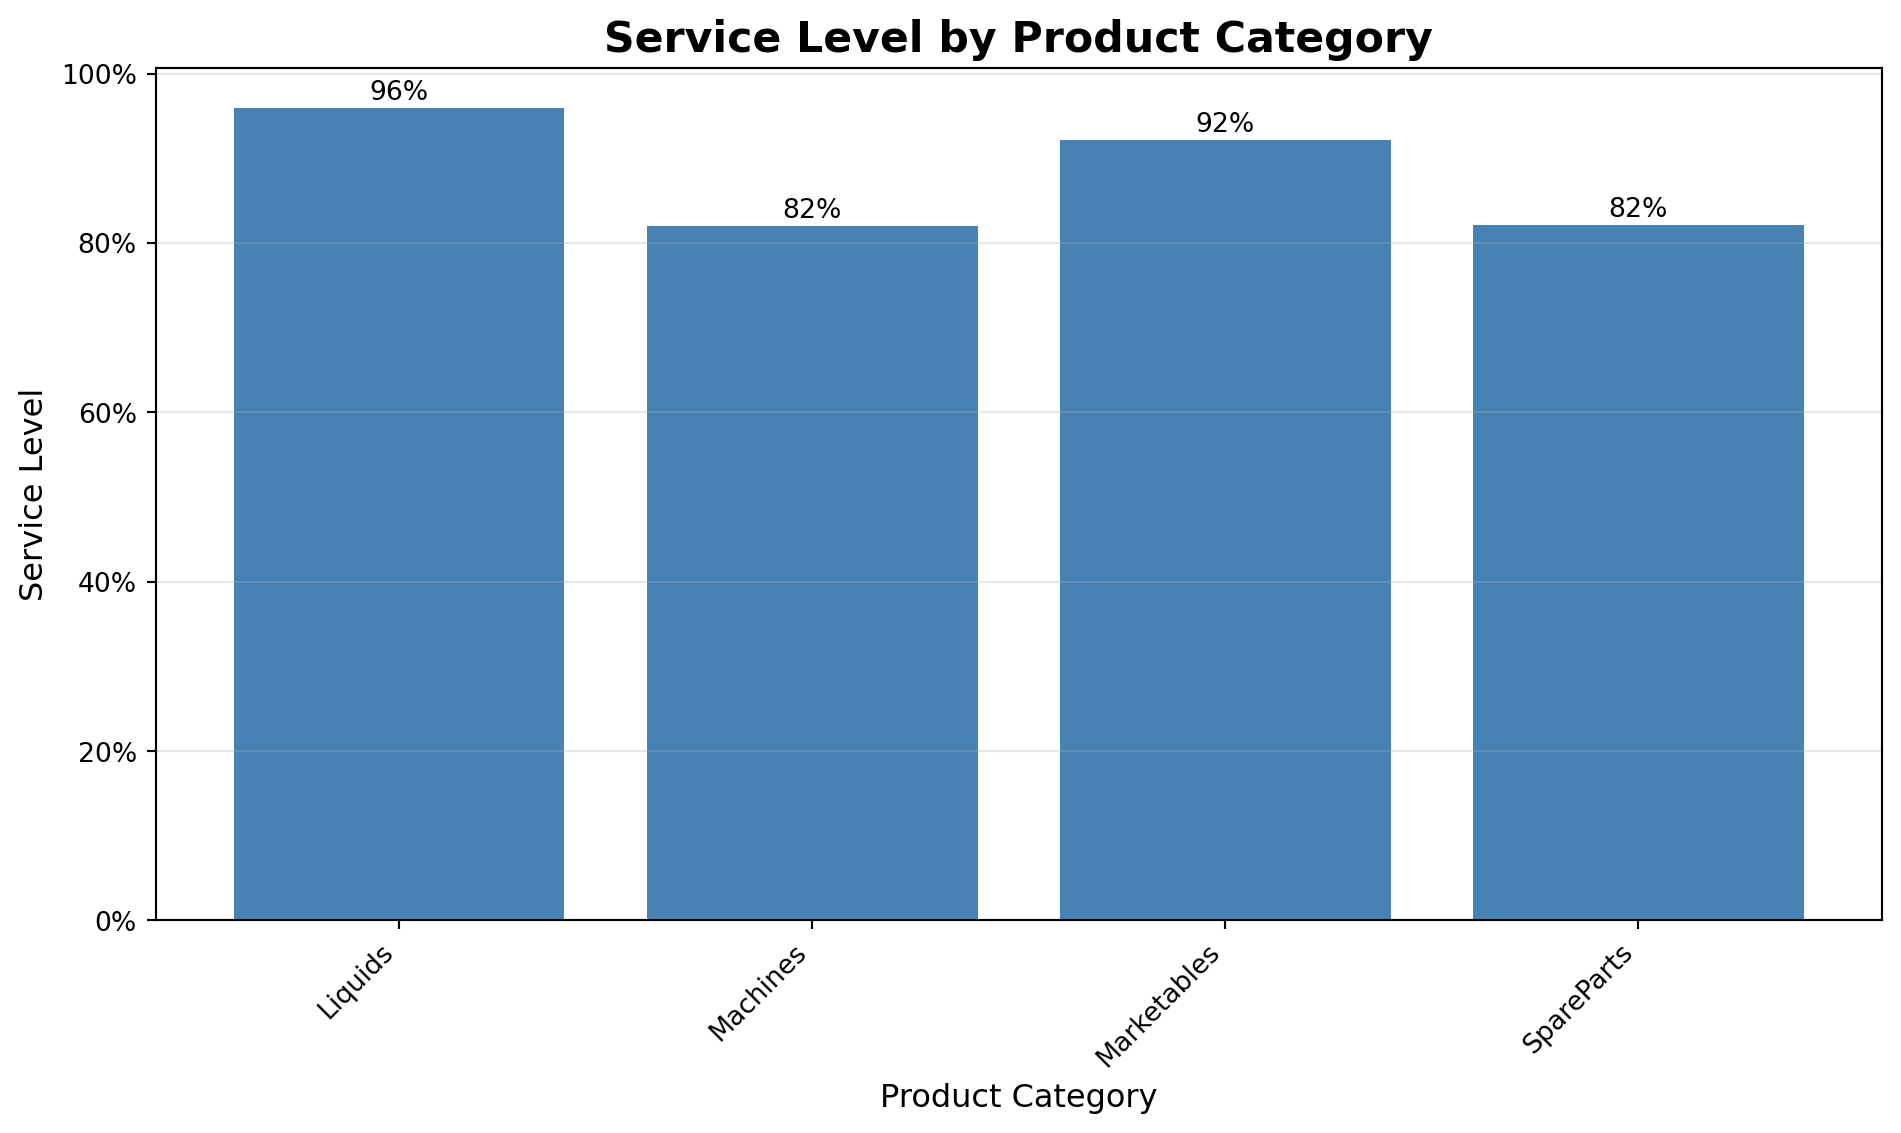
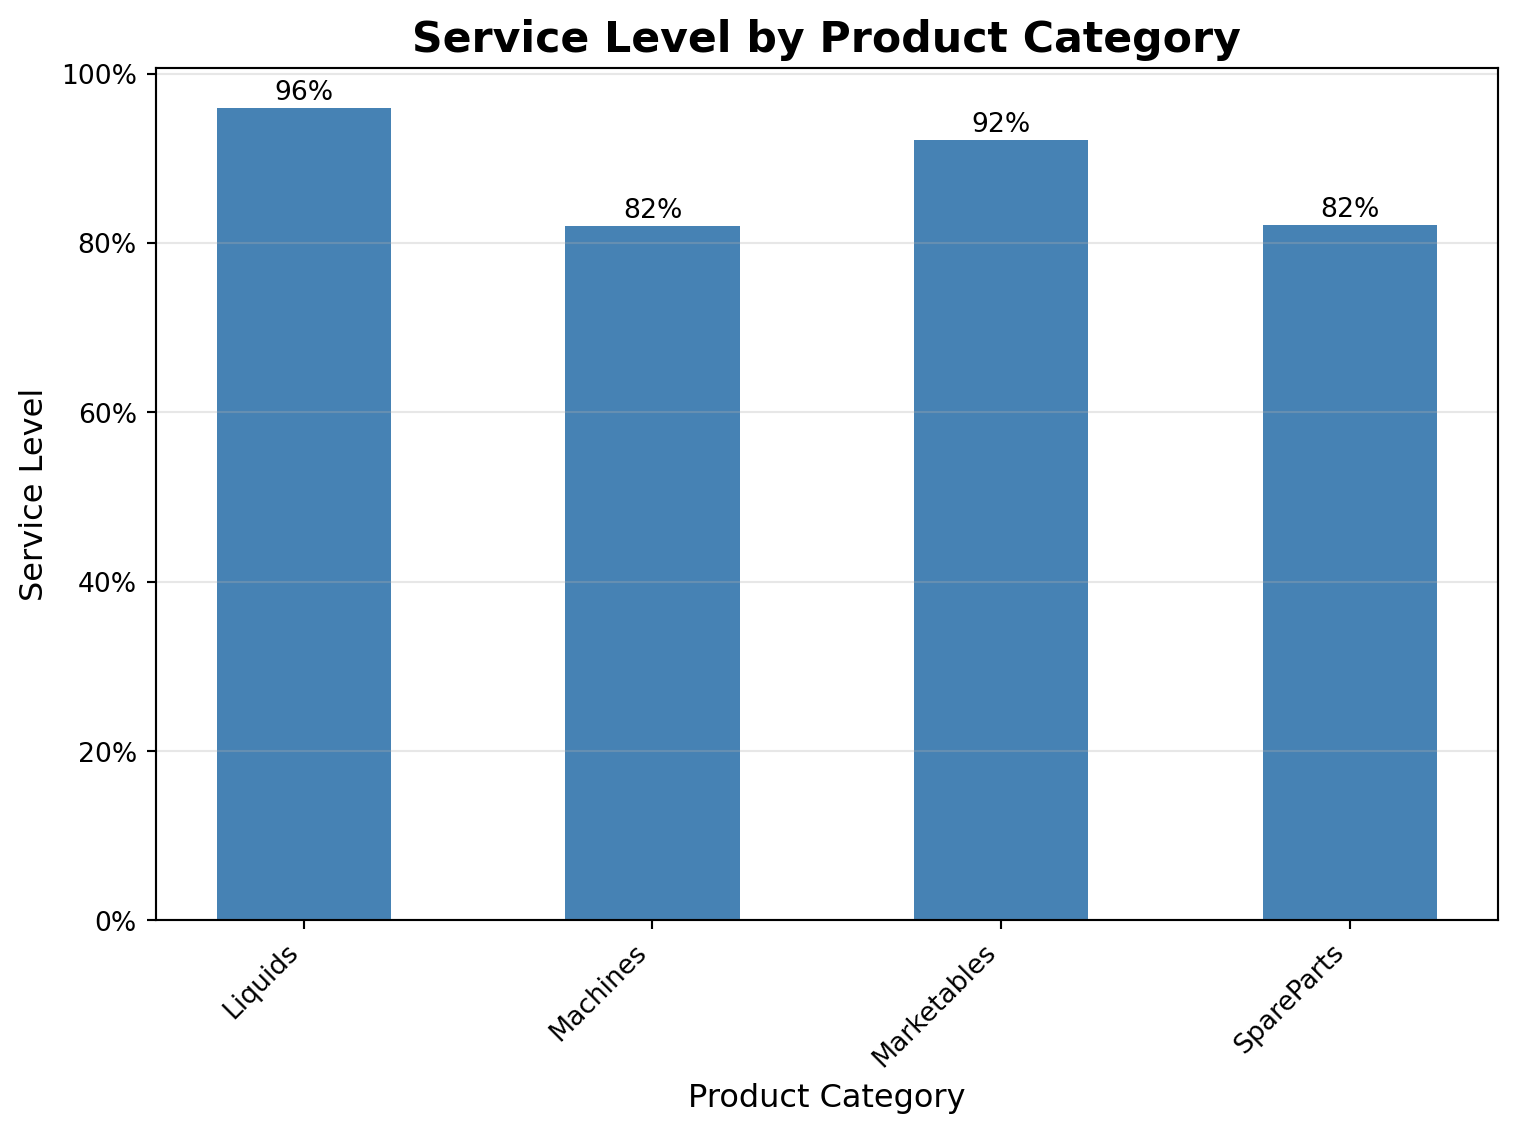
Commit 5 10/25

diff --git a/index.html b/index.html
@@ -380,14 +380,14 @@ First few rows of product line data:
 </div>
 <div class="callout-body-container callout-body">
 <p><strong>Answer 1: Data Types and Date Handling</strong> The dtype of the actualShipDate series is datetime64[ns]. This can be found by using the .dtype method on the actualShipDate column.</p>
-<div id="a63d2b31" class="cell" data-execution_count="3">
+<div id="527f9a0a" class="cell" data-execution_count="3">
 <div class="code-copy-outer-scaffold"><div class="sourceCode cell-code" id="cb6"><pre class="sourceCode python code-with-copy"><code class="sourceCode python"><span id="cb6-1"><a href="#cb6-1" aria-hidden="true" tabindex="-1"></a><span class="bu">print</span>(<span class="st">"The dtype of the actualShipDate series is:"</span>, shipments_df[<span class="st">'actualShipDate'</span>].dtype)</span></code></pre></div><button title="Copy to Clipboard" class="code-copy-button"><i class="bi"></i></button></div>
 <div class="cell-output cell-output-stdout">
 <pre><code>The dtype of the actualShipDate series is: datetime64[ns]</code></pre>
 </div>
 </div>
 <p><strong>Answer 2: String vs Date Comparison</strong> Comparing dates as strings can lead to errors. This happens because strings are compared lexicographically (character by character), while date objects are compared chronologically. Specifically, “20” comes before “21” in lexicographic order.</p>
-<div id="bb10c636" class="cell" data-execution_count="4">
+<div id="9b5c751a" class="cell" data-execution_count="4">
 <div class="code-copy-outer-scaffold"><div class="sourceCode cell-code" id="cb8"><pre class="sourceCode python code-with-copy"><code class="sourceCode python"><span id="cb8-1"><a href="#cb8-1" aria-hidden="true" tabindex="-1"></a><span class="bu">print</span>(<span class="st">"Comparing '10-21-2024' and '10-20-2025' as strings, which is false, but returned"</span>, <span class="st">"10-21-2024"</span> <span class="op">&gt;</span> <span class="st">"10-20-2025"</span>)</span>
 <span id="cb8-2"><a href="#cb8-2" aria-hidden="true" tabindex="-1"></a><span class="bu">print</span>(<span class="st">"Comparing '10-21-2024' and '10-20-2025' as dates, False is correct and returned:"</span>, pd.to_datetime(<span class="st">"10-21-2024"</span>) <span class="op">&gt;</span> pd.to_datetime(<span class="st">"10-20-2025"</span>))</span></code></pre></div><button title="Copy to Clipboard" class="code-copy-button"><i class="bi"></i></button></div>
 <div class="cell-output cell-output-stdout">
@@ -397,7 +397,7 @@ Comparing '10-21-2024' and '10-20-2025' as dates, False is correct and returned:
 </div>
 <p><strong>Answer 3: Debug This Code</strong> The error occurs because the lambda inside .assign() isn’t vectorized and won’t work with conditional statements like if/else. We can’t directly use a conditional statement like that in a vectorized assignment.</p>
 <p>To fix it, we should use .map() to create a new column with the lateStatement values and use lambda df: to reference the current dataframe.</p>
-<div id="7338014f" class="cell" data-execution_count="5">
+<div id="1f6ef77e" class="cell" data-execution_count="5">
 <div class="code-copy-outer-scaffold"><div class="sourceCode cell-code" id="cb10"><pre class="sourceCode python code-with-copy"><code class="sourceCode python"><span id="cb10-1"><a href="#cb10-1" aria-hidden="true" tabindex="-1"></a>shipments_with_lateness <span class="op">=</span> (</span>
 <span id="cb10-2"><a href="#cb10-2" aria-hidden="true" tabindex="-1"></a>    shipments_df</span>
 <span id="cb10-3"><a href="#cb10-3" aria-hidden="true" tabindex="-1"></a>    .assign(</span>
@@ -483,7 +483,7 @@ Late shipments sample:
 <div class="callout-body-container callout-body">
 <p><strong>Answer 1: Query vs Boolean Indexing</strong> The difference is that .query() allows you to filter data with a SQL-like syntax, whereas boolean indexing uses logical conditions directly on the dataframe. .query() is more readable and easier to understand due to its SQL-like syntax, especially for complex queries.</p>
 <p><strong>Answer 2: Additional Row Querying</strong> You can use a variable like <code>late_threshold</code> to query rows for shipments that are at least <code>late_threshold</code> days late. For example, if you wanted to query rows for shipments that are at least 5 days late, you could use the following code:</p>
-<div id="cc849d0a" class="cell" data-execution_count="7">
+<div id="1a3174f7" class="cell" data-execution_count="7">
 <div class="code-copy-outer-scaffold"><div class="sourceCode cell-code" id="cb13"><pre class="sourceCode python code-with-copy"><code class="sourceCode python"><span id="cb13-1"><a href="#cb13-1" aria-hidden="true" tabindex="-1"></a>late_shipments <span class="op">=</span> shipments_with_lateness.query(<span class="st">'days_late &gt;= 5'</span>)</span>
 <span id="cb13-2"><a href="#cb13-2" aria-hidden="true" tabindex="-1"></a><span class="bu">print</span>(late_shipments.head())</span>
 <span id="cb13-3"><a href="#cb13-3" aria-hidden="true" tabindex="-1"></a><span class="bu">print</span>(<span class="ss">f"Found </span><span class="sc">{</span><span class="bu">len</span>(late_shipments)<span class="sc">}</span><span class="ss"> late shipments out of </span><span class="sc">{</span><span class="bu">len</span>(shipments_with_lateness)<span class="sc">}</span><span class="ss"> total"</span>)</span></code></pre></div><button title="Copy to Clipboard" class="code-copy-button"><i class="bi"></i></button></div>
@@ -615,7 +615,7 @@ Remaining columns: ['shipID', 'plannedShipDate', 'actualShipDate', 'partID', 'is
 </div>
 <div class="callout-body-container callout-body">
 <p><strong>Answer 1: Sorting Strategies</strong> The difference between <code>ascending=False</code> and <code>ascending=True</code> in sorting is that <code>ascending=False</code> sorts the data in descending order, while <code>ascending=True</code> sorts the data in ascending order. You would use <code>ascending=False</code> if you want to sort the data from highest to lowest, and <code>ascending=True</code> if you want to sort the data from lowest to highest. To sort by multiple columns, we can use the <code>by</code> parameter with a list of columns. Below code sorts the data by <code>is_late</code> first, then by <code>days_late</code>.</p>
-<div id="8fad601b" class="cell" data-execution_count="10">
+<div id="66363244" class="cell" data-execution_count="10">
 <div class="code-copy-outer-scaffold"><div class="sourceCode cell-code" id="cb19"><pre class="sourceCode python code-with-copy"><code class="sourceCode python"><span id="cb19-1"><a href="#cb19-1" aria-hidden="true" tabindex="-1"></a>sorted_by_lateness <span class="op">=</span> clean_shipments.sort_values(by<span class="op">=</span>[<span class="st">'is_late'</span>, <span class="st">'days_late'</span>], ascending<span class="op">=</span>[<span class="va">False</span>, <span class="va">True</span>])</span>
 <span id="cb19-2"><a href="#cb19-2" aria-hidden="true" tabindex="-1"></a><span class="bu">print</span>(sorted_by_lateness.head(<span class="dv">10</span>))</span></code></pre></div><button title="Copy to Clipboard" class="code-copy-button"><i class="bi"></i></button></div>
 <div class="cell-output cell-output-stdout">
@@ -765,7 +765,7 @@ Name: count, dtype: int64</code></pre>
 </div>
 <div class="callout-body-container callout-body">
 <p><strong>Answer 1: Join Types and Data Loss</strong> We use how=‘left’ because it keeps all rows from the left DataFrame (shipments_df) even if some don’t have a match in the right DataFrame (product_line_df). This ensures that no shipments are lost due to missing product information. To check if any shipments were lost, we can compare the row counts before and after the merge, or check for missing values in the joined columns. If the row counts are the same, no shipments were lost during the merge.</p>
-<div id="eb663807" class="cell" data-execution_count="13">
+<div id="0bec4c2d" class="cell" data-execution_count="13">
 <div class="code-copy-outer-scaffold"><div class="sourceCode cell-code" id="cb25"><pre class="sourceCode python code-with-copy"><code class="sourceCode python"><span id="cb25-1"><a href="#cb25-1" aria-hidden="true" tabindex="-1"></a><span class="bu">print</span>(<span class="ss">f"Rows before merge: </span><span class="sc">{</span><span class="bu">len</span>(clean_shipments)<span class="sc">}</span><span class="ss">"</span>)</span>
 <span id="cb25-2"><a href="#cb25-2" aria-hidden="true" tabindex="-1"></a><span class="bu">print</span>(<span class="ss">f"Rows after merge: </span><span class="sc">{</span><span class="bu">len</span>(shipments_with_category)<span class="sc">}</span><span class="ss">"</span>)</span>
 <span id="cb25-3"><a href="#cb25-3" aria-hidden="true" tabindex="-1"></a><span class="bu">print</span>(<span class="ss">f"Rows lost: </span><span class="sc">{</span><span class="bu">len</span>(clean_shipments) <span class="op">-</span> <span class="bu">len</span>(shipments_with_category)<span class="sc">}</span><span class="ss">"</span>)</span></code></pre></div><button title="Copy to Clipboard" class="code-copy-button"><i class="bi"></i></button></div>
@@ -932,8 +932,8 @@ Percentage with multiple categories: 23.3%</code></pre>
 <span id="cb31-14"><a href="#cb31-14" aria-hidden="true" tabindex="-1"></a>})</span>
 <span id="cb31-15"><a href="#cb31-15" aria-hidden="true" tabindex="-1"></a></span>
 <span id="cb31-16"><a href="#cb31-16" aria-hidden="true" tabindex="-1"></a><span class="co"># Create the bar chart</span></span>
-<span id="cb31-17"><a href="#cb31-17" aria-hidden="true" tabindex="-1"></a>plt.figure(figsize<span class="op">=</span>(<span class="dv">10</span>, <span class="dv">6</span>))</span>
-<span id="cb31-18"><a href="#cb31-18" aria-hidden="true" tabindex="-1"></a>bars <span class="op">=</span> plt.bar(viz_data[<span class="st">'prodCategory'</span>], viz_data[<span class="st">'service_level'</span>], color<span class="op">=</span><span class="st">'steelblue'</span>)</span>
+<span id="cb31-17"><a href="#cb31-17" aria-hidden="true" tabindex="-1"></a>plt.figure(figsize<span class="op">=</span>(<span class="dv">8</span>, <span class="dv">6</span>))</span>
+<span id="cb31-18"><a href="#cb31-18" aria-hidden="true" tabindex="-1"></a>bars <span class="op">=</span> plt.bar(viz_data[<span class="st">'prodCategory'</span>], viz_data[<span class="st">'service_level'</span>], color<span class="op">=</span><span class="st">'steelblue'</span>,width<span class="op">=</span><span class="fl">0.5</span>)</span>
 <span id="cb31-19"><a href="#cb31-19" aria-hidden="true" tabindex="-1"></a></span>
 <span id="cb31-20"><a href="#cb31-20" aria-hidden="true" tabindex="-1"></a><span class="co"># Add value labels on bars</span></span>
 <span id="cb31-21"><a href="#cb31-21" aria-hidden="true" tabindex="-1"></a><span class="cf">for</span> bar <span class="kw">in</span> bars:</span>
@@ -955,7 +955,7 @@ Percentage with multiple categories: 23.3%</code></pre>
 <div class="cell-output cell-output-display">
 <div>
 <figure class="figure">
-<p><img src="index_files/figure-html/mental-model-8-visualization-output-1.png" id="mental-model-8-visualization" width="951" height="567" class="figure-img"></p>
+<p><img src="index_files/figure-html/mental-model-8-visualization-output-1.png" id="mental-model-8-visualization" width="759" height="567" class="figure-img"></p>
 </figure>
 </div>
 </div>
